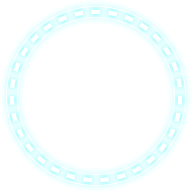
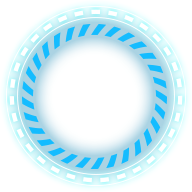
iot-sensortag: Update graphics for LightChart and RotationPage
Light gauge image updated.
Gyro ring images updated for RotationPage. Particles removed for now.

diff --git a/tradeshow/iot-sensortag/resources/base/RotationPage.qml b/tradeshow/iot-sensortag/resources/base/RotationPage.qml
@@ -54,24 +54,31 @@ import QtQuick.Particles 2.0
 Item {
     id: dialerRoot
     property var sensor: null
-    anchors.fill: parent
     focus: true
 
     Image {
+        id: ring
+        anchors.centerIn: parent
+        source: pathPrefix + "Gyro/gyro_outer.png"
+    }
+    Image {
         id: outerRing
-        anchors.fill: parent
-        fillMode: Image.PreserveAspectFit
-        source: pathPrefix + "Gyro/ring_outer.png"
-        z: parent.z + 1
+        anchors.centerIn: parent
+        source: pathPrefix + "Gyro/gyro_ring3.png"
+        rotation: sensor.rotationX
+        Behavior on rotation {
+            RotationAnimation {
+                easing.type: Easing.Linear
+                duration: sensor.rotationUpdateInterval
+                direction: RotationAnimation.Shortest
+            }
+        }
     }
     Image {
         id: largeRing
         anchors.centerIn: parent
-        width: outerRing.width * 0.8
-        fillMode: Image.PreserveAspectFit
-        source: pathPrefix + "Gyro/ring_large.png"
-        rotation: sensor.rotationX
-        z: parent.z + 2
+        source: pathPrefix + "Gyro/gyro_ring2.png"
+        rotation: sensor.rotationY
         Behavior on rotation {
             RotationAnimation {
                 easing.type: Easing.Linear
@@ -83,11 +90,8 @@ Item {
     Image {
         id: mediumRing
         anchors.centerIn: parent
-        width: outerRing.width * 0.6
-        fillMode: Image.PreserveAspectFit
-        source: pathPrefix + "Gyro/ring_medium.png"
-        rotation: sensor.rotationY
-        z: parent.z + 3
+        source: pathPrefix + "Gyro/gyro_ring1.png"
+        rotation: sensor.rotationZ
         Behavior on rotation {
             RotationAnimation {
                 easing.type: Easing.Linear
@@ -99,90 +103,6 @@ Item {
     Image {
         id: centerRing
         anchors.centerIn: parent
-        width: outerRing.width * 0.4
-        fillMode: Image.PreserveAspectFit
-        source: pathPrefix + "Gyro/ring_small.png"
-        rotation: sensor.rotationZ
-        z: parent.z + 4
-        Behavior on rotation {
-            RotationAnimation {
-                easing.type: Easing.Linear
-                duration: sensor.rotationUpdateInterval
-                direction: RotationAnimation.Shortest
-            }
-        }
-    }
-    ParticleSystem {
-        id: particles
-        anchors.fill: parent
-        z: parent.z + 5
-        ImageParticle {
-            source: pathPrefix + "Gyro/particle.png"
-            alpha: 0
-            colorVariation: 0.2
-        }
-        Emitter {
-            property int rateToEmit: Math.abs(sensor.gyroscopeZ_degPerSec) * 4
-            id: centerEmitter
-            x: centerRing.x
-            y: centerRing.y
-            width: centerRing.width
-            height: centerRing.height
-            emitRate: rateToEmit > 400 ? rateToEmit : 0
-            lifeSpan: 1000
-            enabled: true
-            shape: EllipseShape {
-                fill: false
-            }
-            velocity: AngleDirection{
-                magnitude: 100
-                angleVariation: 0
-                angle: 90
-            }
-            size: particles.width / 200
-            sizeVariation: 3
-        }
-        Emitter {
-            property int rateToEmit: Math.abs(sensor.gyroscopeY_degPerSec) * 4
-            id: midEmitter
-            x: mediumRing.x
-            y: mediumRing.y
-            width: mediumRing.width
-            height: mediumRing.height
-            emitRate: rateToEmit > 400 ? rateToEmit : 0
-            lifeSpan: 1000
-            enabled: true
-            shape: EllipseShape {
-                fill: false
-            }
-            velocity: AngleDirection{
-                magnitude: 100
-                angleVariation: 0
-                angle: 90
-            }
-            size: particles.width / 200
-            sizeVariation: 3
-        }
-        Emitter {
-            property int rateToEmit: Math.abs(sensor.gyroscopeX_degPerSec) * 4
-            id: largeEmitter
-            x: largeRing.x
-            y: largeRing.y
-            width: largeRing.width
-            height: largeRing.height
-            emitRate: rateToEmit > 400 ? rateToEmit : 0
-            lifeSpan: 1000
-            enabled: true
-            shape: EllipseShape {
-                fill: false
-            }
-            velocity: AngleDirection{
-                magnitude: 100
-                angleVariation: 0
-                angle: 90
-            }
-            size: particles.width / 200
-            sizeVariation: 3
-        }
+        source: pathPrefix + "Gyro/gyro_center.png"
     }
 }
